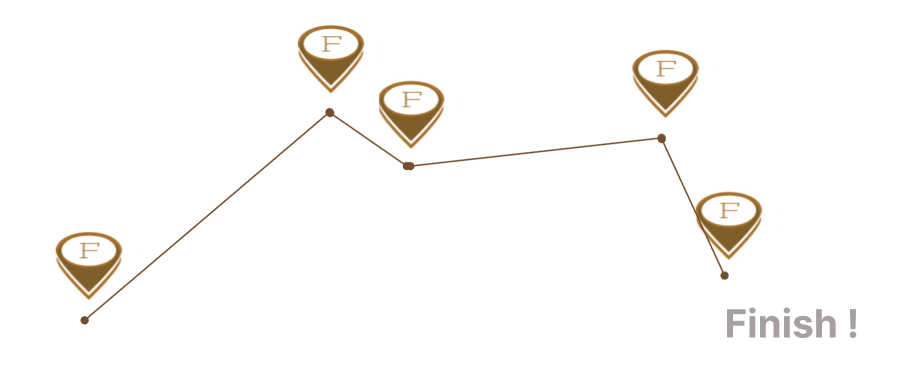
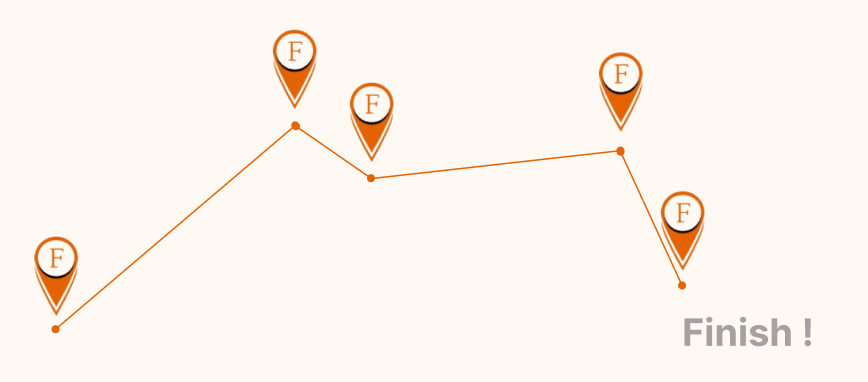
updated resting points

diff --git a/fastrouteweb/src/pages/contact/ContactUs.jsx b/fastrouteweb/src/pages/contact/ContactUs.jsx
@@ -8,29 +8,24 @@ const ContactUs = () => {
   return (
     <div>
       <div className="contact">
-        <img src="/Receiver.png" alt="receiver" />
         <div className="main my-5 mx-5 px-5">
           <h1 className="heading px-3">Contact Us</h1>
-          <h2 className="main-text mx-4 my-4">
-            At FastRoute we bridge the gap between businesses and transporters by offering a platform that harbors collaboration, reliability, and speed.
+          <h2 className="main-text mx-4 my-4 col-lg-6 col-12">
+          Lorem ipsum dolor sit amet, consectetur adipiscing elit, sed do eiusmod tempor incididunt ut labore et dolore magna aliqua. Eiusmod labore et magna aliqua.
           </h2>
-          <div className="info my-5 py-5">
-            <div className="i px-5">
+          <div className="info my-2 py-5">
+            <div className="i px-2">
               <img src="./Phone Icon.png" alt="phone" />
               <div>
-                <strong>Phone</strong>
-                <br />
-                <br />
-                <p>+91 87660 457XXX<br /> +91 98765 423XXX</p>
+                <p className = "info-text">+91 87660 457XXX<br /> +91 98765 423XXX</p>
               </div>
             </div>
-            <div className="i mx-5 px-5">
+            <div className="i mx-5 px-2">
               <img src="./Location Icon.png" alt="location" />
               <div>
-                <strong>Location <br />FastRoute Company</strong>
+                <strong>FastRoute Company</strong>
                 <br />
-                <br />
-                <p>811 Indian Summer Rd.<br />Sun City, AZ 85351</p>
+                <p className = "info-text">811 Indian Summer Rd.<br />Sun City, AZ 85351</p>
               </div>
             </div>
           </div>
@@ -39,7 +34,7 @@ const ContactUs = () => {
 
       <div className="follow my-5 py-5">
         <div className="col-12 col-md-3 fleft">
-          <h2 className="mx-5">Follow Us</h2>
+          <h2 className="mx-5 follow-text">Follow Us</h2>
           <div className='handles mx-5 py-2'>
             <div className='handle my-3 mx-5 px-4 py-3'>
               <img src="./Instagram Icon.png" alt="Instagram" /><span className="handletext mx-3">Instagram</span>
@@ -59,25 +54,25 @@ const ContactUs = () => {
         </div>
       </div>
 
-      <div className="enquiry row flex">
-        <div className="col-12 col-md-7 py-5">
-          <h2 className="mx-3">For Enquiry</h2>
-          <br />
-          <form>
-            <input className="inputFields" type='text' placeholder='Name' name="name" />
-            <br />
-            <input className="inputFields" type='text' placeholder='Email Id' name="email" />
-            <br />
-            <input className="inputFields" type='text' placeholder='Contact Number' name="contact" />
-            <br />
-            <textarea className="inputFields" name="comment" placeholder="Comment" rows="7" />
-            <br /><br />
-            <button className="about mx-3" type="submit"><div className='aboutText'>Enquire</div></button>
-          </form>
+      <div className="enquiry row flex mb-5">
+       <div className = "leftEnquiry col-lg-2 col-sm-12 py-5 px-5">
+            <h1 className = "enquiry-text">For Enquiry</h1>
+            <div className = "mx-5">
+              <input type = "text" className = " inputFields p-2 mx-5 my-2" placeholder='Name'/><br/>
+              <input type = "email" className = " inputFields p-2 mx-5 my-2" placeholder = "Email Id"/><br/>
+              <input type = "text" className = " inputFields p-2 mx-5 my-2" placeholder = "Phone Number"/><br/>
+              <textarea rows= "50" placeholder = "Comments" className = " inputFields p-2 mx-5 my-2"/><br/>
+              <button className = "enquiry-button mx-5"><span className = "enquiry-button-text">Enquire</span></button>
+            </div>
+       </div>
+       <div className='col-4'>
         </div>
-        <div className=" col-12 col-md-5">
-          <img src="/enquiry.png" alt="question area" className = "image"/>
-        </div>
+       <div className='col-4 mt-5'>
+        <div className = "request-text border-bottom">Request for Services</div>
+        <p className = "request mt-3">Let us know your areas of interest so that we can serve you better</p>
+        <img src = "design.png" className = "design"/>
+       </div>
+       <div className = "col-lg-2"></div>
       </div>
     </div>
   );

diff --git a/fastrouteweb/src/styles/ContactUs.css b/fastrouteweb/src/styles/ContactUs.css
@@ -1,7 +1,10 @@
 .contact{
-    background-color: #F1E6DF;
+    background-image: url("../../public/image 4.jpg");
+    background-repeat: no-repeat;
+    background-size: cover;
+   
     margin-top:0px;
-    height: 70%;
+    height: 95vh;
     display: flex;
 }
 
@@ -18,18 +21,18 @@
   }
 
 .heading{
-    font-size: 42px;
-    font-weight: 600;
-    line-height: 51px;
+    font-size: 3rem;
+    font-weight: bold;
+    line-height: 1rem;
 }
 .main{
     text-align: left;
 }
 .main-text{
-    color: #5C5C5C;
+    color:  #d97528;
     font-size: 1.6rem;
-    font-weight: 400;
-    line-height: 34px;
+    font-weight: 500;
+    line-height: 1.4em;
 }
 
 .info{
@@ -37,6 +40,9 @@
     text-align: center;
 }
 
+.info-text{
+    font-size: 0.8rem;
+}
 @media (max-width: 800px) {
    .heading{
      font-size: 1.5rem;
@@ -46,10 +52,7 @@
      font-size: 1.2rem;
      margin: 0;
    }
-    .info{
-        flex-direction: column;
-        align-items: center;
-    }
+   
   }
 
 .follow{
@@ -59,6 +62,9 @@
     display: flex;
 }
 
+.follow-text{
+    color: #E36400;
+}
 .handles{
     width: 250px;
     height: 250px;
@@ -111,7 +117,7 @@ text-align: justified;
 }
 
 .bar{
-    color: #523B29;
+    color: #E36400;
     font-size: 35px;
     font-weight: 700;
     line-height: 42px;
@@ -119,14 +125,14 @@ text-align: justified;
 }
 
 .about{
-    background-color: #724E31;
+    background-color: #E36400;
     width: 180px;
     height: 60px;
     padding: 19px, 50px, 19px, 50px;
     border-radius: 10px;
     gap: 10px;
     border-style: solid;
-    border-color:#724E31;
+    border-color:#E36400;
 }
 
 .aboutText{
@@ -138,7 +144,7 @@ text-align: justified;
 }
 
 .about:hover{
-    box-shadow: 0px 0px 1px 1px #724E31;
+    box-shadow: 0px 0px 1px 1px #E36400;
 }
 
 .fleft{
@@ -147,30 +153,70 @@ text-align: justified;
 
 
 .enquiry{
-    width:100%;
-    height: 50%;
-    background-color:#F1E6DF;
-    text-align: left;
-    padding-left: 8%;
-    margin-top: 2%;
-    padding: 5%;
+   height: 90vh;
+   object-fit: cover;
 }
 
+.leftEnquiry{
+    background-color: #E36400;
+}
+
+.enquiry-text{
+    color: white;
+    font-weight: 600;
+    font-size: 2em;
+}
 .inputFields{
-    border-style: solid;
-    border-color: white;
-    border-radius: 6px;
-    margin: 15px;
-    padding: 7px;
-    width: 40rem;
+    
+    width: 30rem;
+    height: 5vh;
+    border-radius: 10px;
+    border: 1px solid #737373
+
 
 }
 
+.enquiry-button{
+    width: 20rem;
+    height: 3rem;
+    padding: 19px, 50px, 19px, 50px;
+    gap: 10px;
+    background-color: #D1D1D1;
+    border: 1px solid #D1D1D1;
+    border-radius: 7px;
+}
 
+.enquiry-button-text{
+    color: black;
+    font-weight: 500;
+}
+textarea{
+    min-height: 280px;
+}
+
+.request-text{
+    font-size: 5rem;
+}
+
+.request{
+    font-size: 1.5rem;
+    color:  #4F2300;
+    font-weight: bold;
+
+}
 
 @media (max-width: 800px) {
     .inputFields{
-       width: 15rem;
+       width: 12rem;
+       
     }
-   
+    .request, .request-text, .design{
+        display: none;
+    }
+    .enquiry-button{
+        width: 8rem;
+    }
+   .enquiry-text{
+    color: black;
+   }
   }

diff --git a/fastrouteweb/src/pages/restingpoints/RestingPoints.jsx b/fastrouteweb/src/pages/restingpoints/RestingPoints.jsx
@@ -3,7 +3,7 @@ import '../../styles/Resting.css';
 
 const RestingPoints = () =>{
     return (
-        <div className = "border-bottom" >
+        <div className = "r border-bottom py-2" >
             <div className = "head row flex my-4">
            <h1 className = "col-4 px-5">Resting points</h1>
            
@@ -24,7 +24,7 @@ const RestingPoints = () =>{
                     <div className = "find px-5 mt-5 mb-5">
                         <span className = "nearest">Find our nearest Resting point</span><br/>
                         <span className = "shipping">Enter your shipping details and you will find us!</span>
-                        <form className = "mt-5">
+                        <form className = "r mt-5">
                             <input placeholder='Name' type = "text" className='field mb-3 px-3'/><br/>
                             <input placeholder='Shipping pincode' type = 'text' className = 'field mb-3 px-3'/><br/>
                             <button type =  'submit' className = 'pincodeButton mt-5'><span className = "pincodeText">Get details</span></button>

diff --git a/fastrouteweb/src/styles/Resting.css b/fastrouteweb/src/styles/Resting.css
@@ -1,5 +1,9 @@
+.r{
+    background-color: #FFF9F4;
+}
+
 .bar{
-    color: #523B29;
+    color: #E36400;
     font-size: 35px;
     font-weight: 700;
     line-height: 34px;
@@ -25,13 +29,13 @@
 }
 
 .locate{
-    background-color: #724E31;
+    background-color: #E36400;
     width: 268px;
     height: 60px;
     padding: 19px, 50px, 19px, 50px;
     border-radius: 10px;
     gap: 10px;
-    border: 0.5px solid #724E31;
+    border: 0.5px solid #E36400;
 }
 
 .locateText{
@@ -91,8 +95,8 @@
     padding: 19px, 50px, 19px, 50px;
     border-radius: 10px;
     gap: 10px;
-    border: 0.5px solid #724E31;
-    background-color: #724E31;
+    border: 0.5px solid #E36400;
+    background-color: #E36400;
 
 }
 

diff --git a/fastrouteweb/src/styles/Navbar.css b/fastrouteweb/src/styles/Navbar.css
@@ -1,8 +1,9 @@
 .login{
-    background-color:#724E31;
+    background-color:#E46400;
     color: white;
     border-radius: 30px;
-    border-color: #724E31;
+    border-color: #E46400;
+    
     border-style: solid;
     height: 45px;
     width: 140px;
@@ -12,7 +13,7 @@
 
 
 .login:hover{
-    box-shadow: 0px 0px 1px 1px #724E31;
+    box-shadow: 0px 0px 1px 1px #E46400;
 }
 .nav-item{
     color: black;
@@ -21,7 +22,7 @@
 }
 
 .nav-item:hover{
-    color:#724E31;
+    color:#E46400;
 }
 
 .navbar{

diff --git a/fastrouteweb/src/components/common/Navbar/Navbar.jsx b/fastrouteweb/src/components/common/Navbar/Navbar.jsx
@@ -7,7 +7,7 @@ const Navbar = () => {
     return (
         <header className="navbar d-flex flex-wrap align-items-center justify-content-center justify-content-md-between px-5">
       <div className="col-md-3 mb-2 mb-md-0">
-        <img src = "logo2 2.png" alt = "fastRoute logo"></img>
+        <img src = "logo2.png" alt = "fastRoute logo"></img>
       </div>
 
       <ul className="nav col-12 col-md-auto mb-2 justify-content-center mb-md-0">

diff --git a/fastrouteweb/src/pages/contact/contactpg.jsx b/fastrouteweb/src/pages/contact/contactpg.jsx
@@ -1,8 +1,10 @@
 import ContactUs from "./ContactUs";
+
 const Contactpg = () => {
     return (
               <div className="">
-<ContactUs></ContactUs>                   
+<ContactUs></ContactUs>   
+                            
               </div>
             );
           }

diff --git a/fastrouteweb/src/styles/LorryBooking.css b/fastrouteweb/src/styles/LorryBooking.css
@@ -15,7 +15,7 @@
 }
 
 .bar{
-    color: #523B29;
+    color: #E36400;
     font-size: 35px;
     font-weight: 700;
     line-height: 32px;
